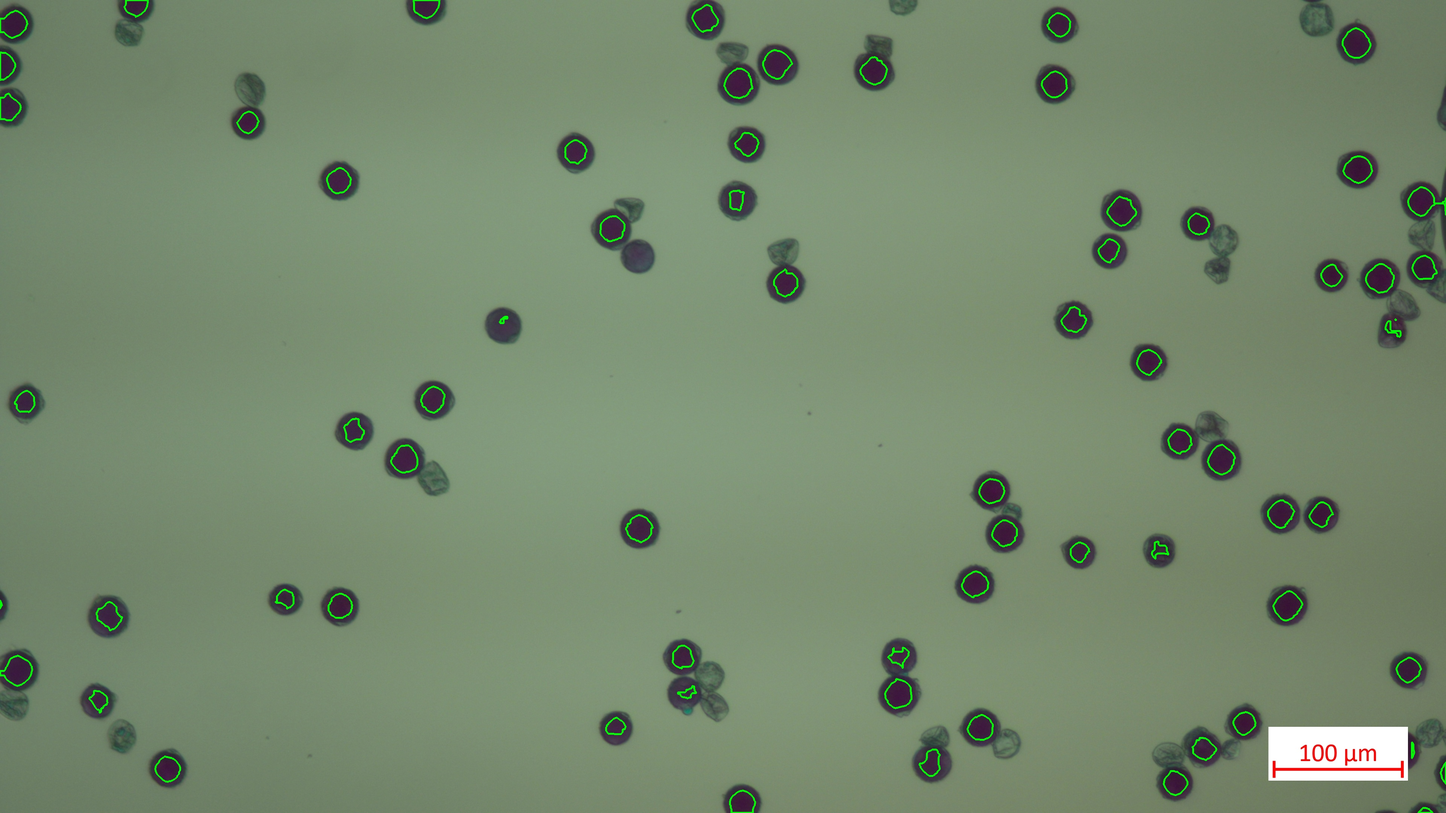
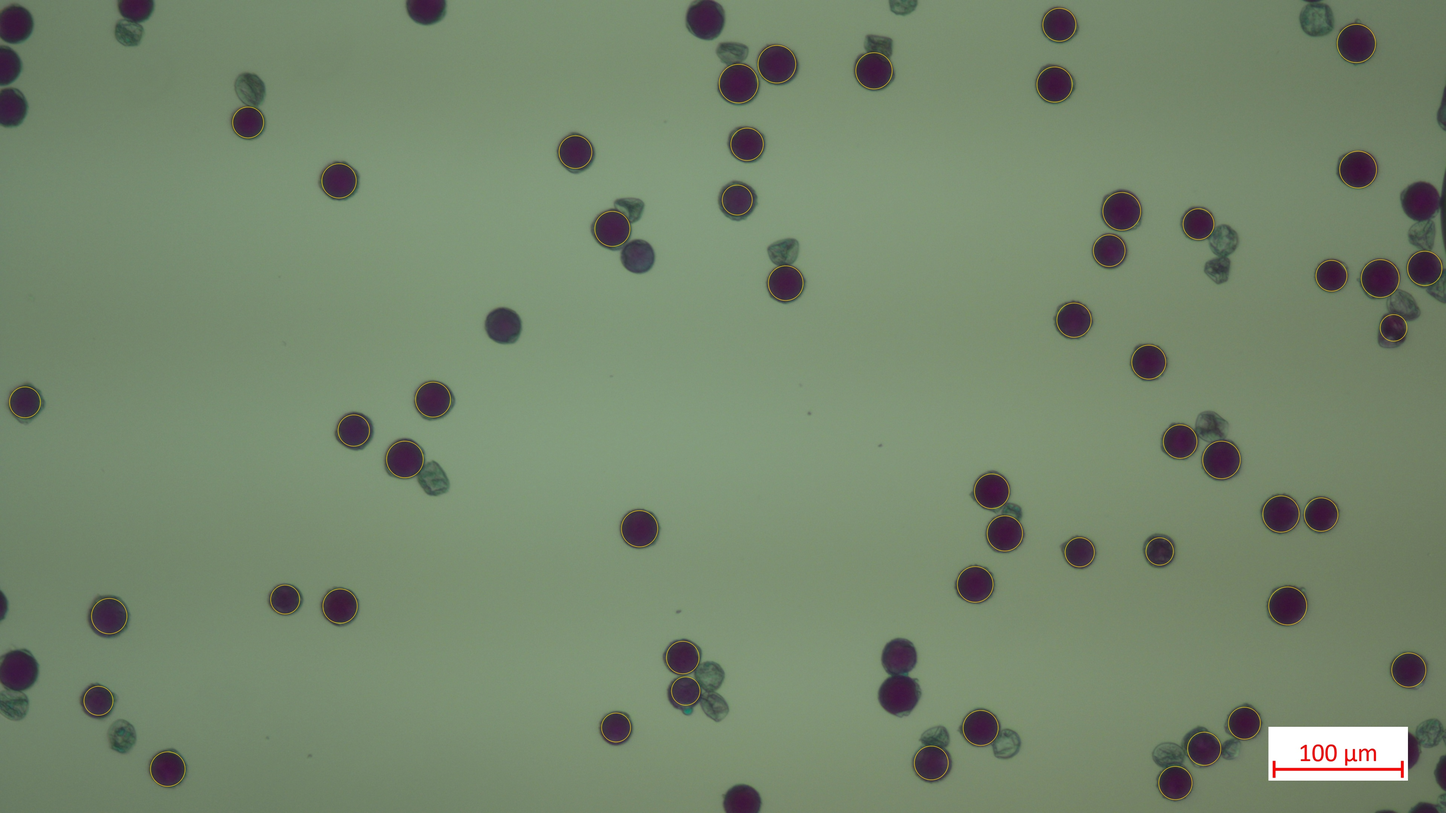
feat: add blob detection of dark pollen

diff --git a/blob_detection2.py b/blob_detection2.py
@@ -1,0 +1,46 @@
+import numpy as np
+import cv2 as cv
+
+
+img1 = cv.imread('./input/pollen1.jpg')
+img1_gray = cv.cvtColor(img1, cv.COLOR_BGR2GRAY)
+
+
+cv.imwrite("./output/output1.jpg", img1_gray)
+
+clahe = cv.createCLAHE(clipLimit=2.0, tileGridSize=(8,8))
+cl_img = clahe.apply(img1_gray)
+
+cv.imwrite("./output/output2.jpg", cl_img)
+
+_, img2 = cv.threshold(img1_gray, 60, 255, cv.THRESH_BINARY)
+_, img3 = cv.threshold(cl_img, 0, 255, cv.THRESH_BINARY + cv.THRESH_OTSU)
+
+
+img3 = cv.erode(img2, np.ones((3, 3), np.uint8), iterations=10)
+img3 = cv.dilate(img2, np.ones((3, 3), np.uint8), iterations=10)
+cv.imwrite("./output/output3.jpg", img2)
+
+params = cv.SimpleBlobDetector_Params()
+params.filterByArea = True
+params.minArea = 1000
+params.maxArea = 15000
+
+params.filterByCircularity = True
+params.minCircularity = 0.3
+
+params.filterByInertia = True
+params.minInertiaRatio = 0.25
+
+params.filterByConvexity = True
+params.minConvexity = 0.5
+
+
+detector = cv.SimpleBlobDetector_create(params)
+
+keypoints = detector.detect(img2)
+
+img1 = cv.drawKeypoints(img1, keypoints, np.zeros((1, 1)), (0, 216, 255), flags=cv.DRAW_MATCHES_FLAGS_DRAW_RICH_KEYPOINTS)
+print(f"Total detected: {len(keypoints)}")
+
+cv.imwrite("./output/output4.jpg", img1)
